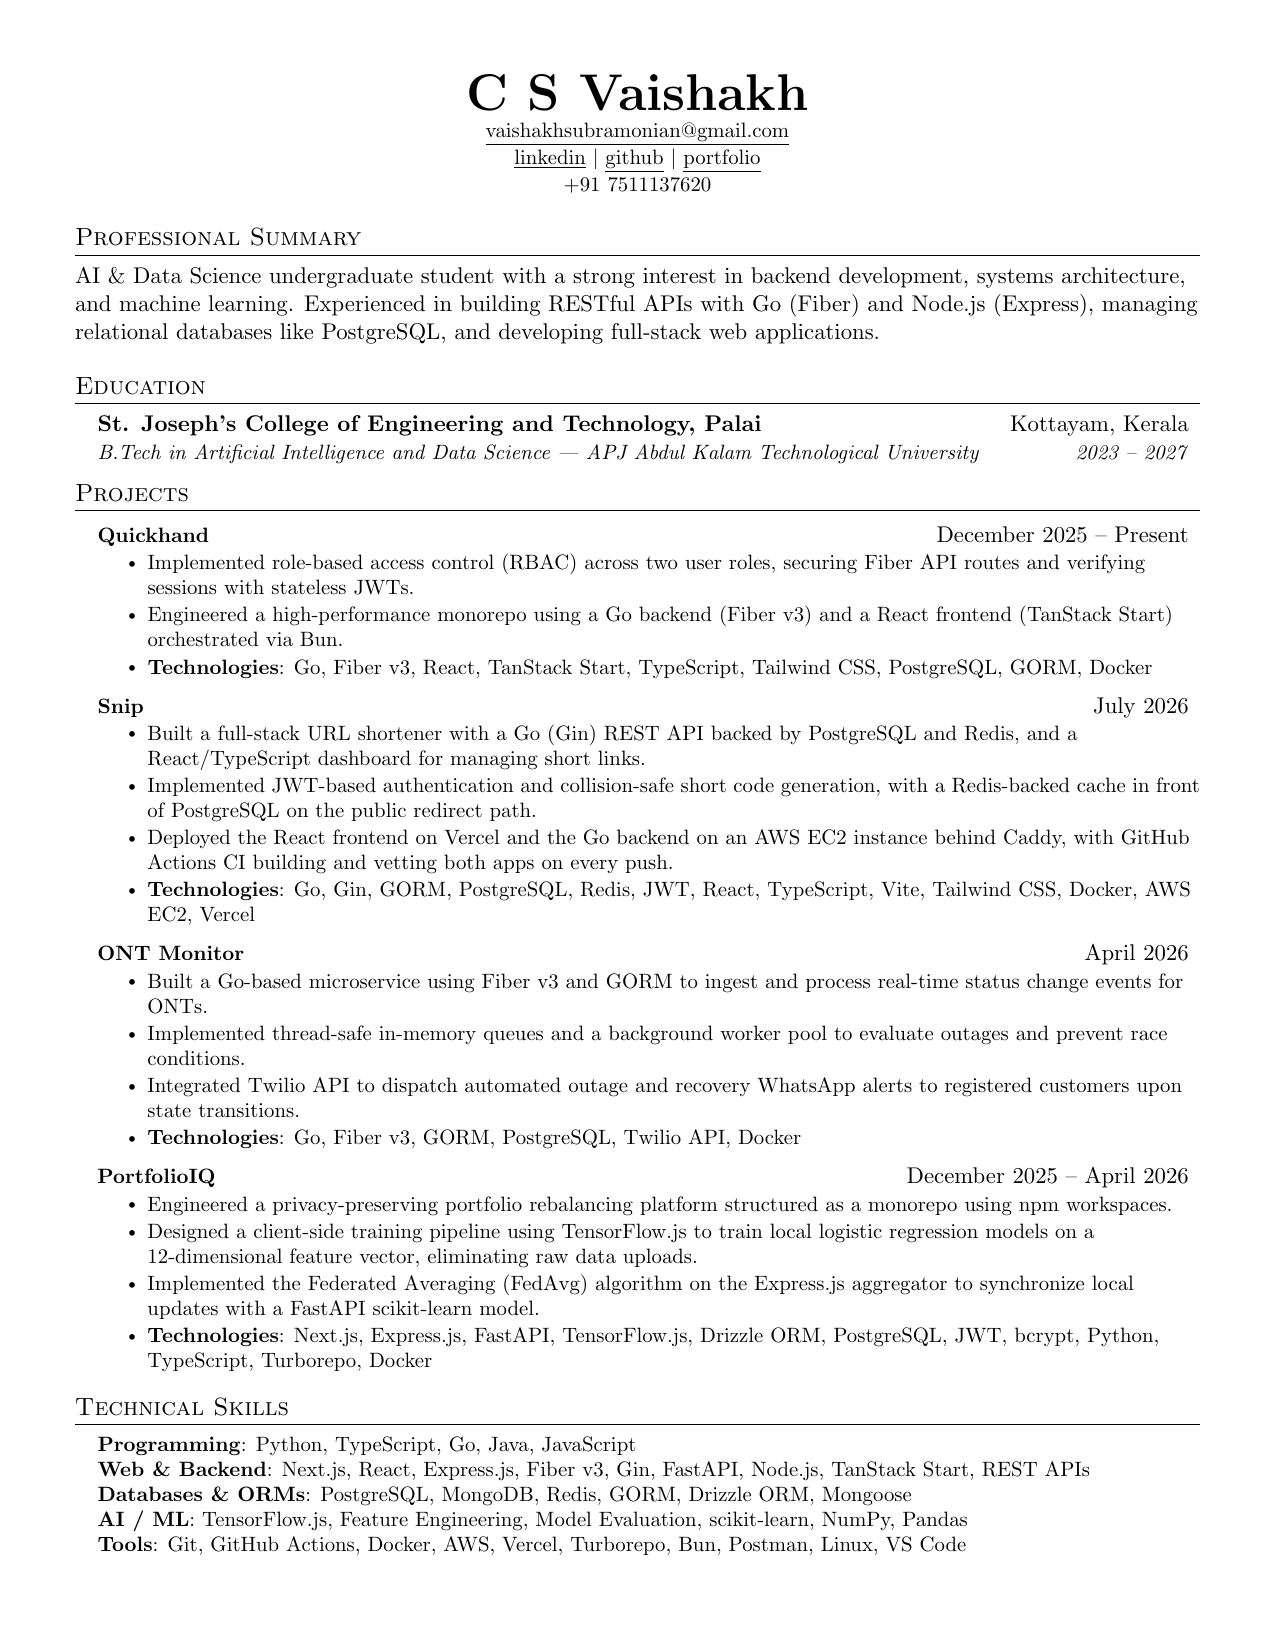
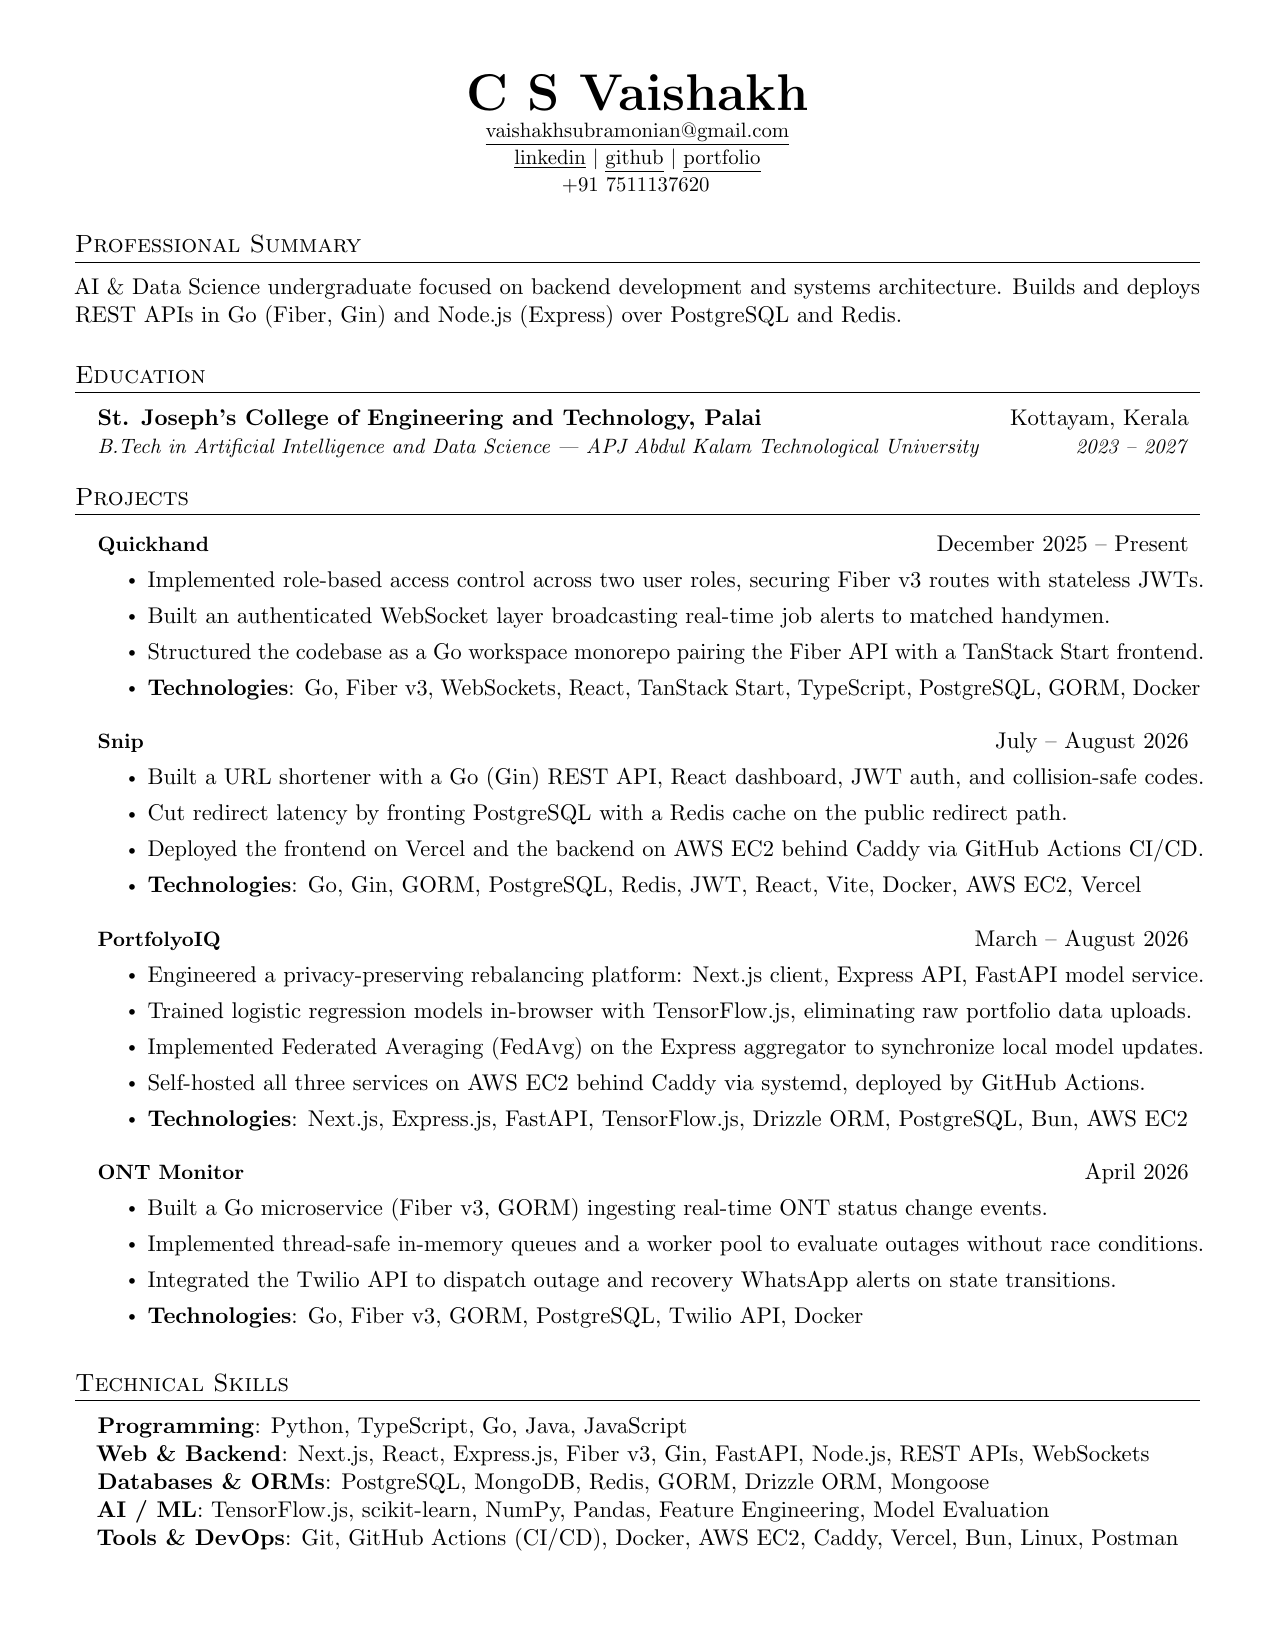
feat(resume): retune typography, refresh projects, tighten copy
- Justify body copy with microtype protrusion/expansion so lines fill
  cleanly instead of orphaning trailing words
- Replace hardcoded \small and vspace values with named typography
  commands (\bodyfont, \itemgap, \blockgap, \listgap, \secpre, \secpost)
- Fix \resumeItem to avoid trailing glue creating empty second lines
- Swap PortfolioIQ for PortfolyoIQ with deployment details, add
  WebSocket work to Quickhand, reorder projects by recency
- Condense summary, bullets, and skills sections

Claude-Session: https://claude.ai/code/session_01TGMSVWJrTrtqGAeWmbhmxX

diff --git a/Resume.tex b/Resume.tex
@@ -42,13 +42,27 @@
 \urlstyle{same}
 
 \raggedbottom
-\raggedright
+% Body copy is justified (not \raggedright): TeX can then shrink interword
+% space to pull trailing words back onto the line instead of orphaning them.
 \setlength{\tabcolsep}{0in}
+% Character protrusion + font expansion buy a little extra room per line and
+% keep the justified spacing even.
+\usepackage[protrusion=true,expansion=true]{microtype}
+
+%----------TYPOGRAPHY TUNING----------
+% Body copy size/leading for bullets and skills. Bumped above the template's
+% \small so the page reads at full size instead of shrunk.
+\newcommand{\bodyfont}{\fontsize{10.5pt}{13.6pt}\selectfont}
+\newcommand{\itemgap}{0pt}      % extra space after each bullet
+\newcommand{\blockgap}{-5pt}    % space after a heading block
+\newcommand{\listgap}{-1pt}     % space after a bullet list
+\newcommand{\secpre}{-1pt}      % space above a section rule
+\newcommand{\secpost}{-3pt}     % space below a section rule
 
 % Sections formatting
 \titleformat{\section}{
-  \vspace{-4pt}\scshape\raggedright\large
-}{}{0em}{}[\color{black}\titlerule \vspace{-5pt}]
+  \vspace{\secpre}\scshape\raggedright\large
+}{}{0em}{}[\color{black}\titlerule \vspace{\secpost}]
 
 % Ensure that generated PDF is machine readable/ATS parsable when supported
 \ifPDFTeX
@@ -58,10 +72,12 @@
 
 %-------------------------
 % Custom commands
-\newcommand{\resumeItem}[1]{
-  \item\small{
-    {#1 \vspace{-2pt}}
-  }
+% The trailing %-signs and the \par matter: without them a bullet whose text
+% reaches the right margin picks up trailing glue and breaks to a second, empty
+% line. The \par also closes the paragraph while \bodyfont is still active so the
+% last line uses the right leading.
+\newcommand{\resumeItem}[1]{%
+  \item{\bodyfont #1\par}\vspace{\itemgap}%
 }
 
 \newcommand{\resumeSubheading}[4]{
@@ -69,21 +85,21 @@
     \begin{tabular*}{0.97\textwidth}[t]{l@{\extracolsep{\fill}}r}
       \textbf{#1} & #2 \\
       \textit{\small#3} & \textit{\small #4} \\
-    \end{tabular*}\vspace{-7pt}
+    \end{tabular*}\vspace{\blockgap}
 }
 
 \newcommand{\resumeSubSubheading}[2]{
     \item
     \begin{tabular*}{0.97\textwidth}{l@{\extracolsep{\fill}}r}
       \textit{\small#1} & \textit{\small #2} \\
-    \end{tabular*}\vspace{-7pt}
+    \end{tabular*}\vspace{\blockgap}
 }
 
 \newcommand{\resumeProjectHeading}[2]{
     \item
     \begin{tabular*}{0.97\textwidth}{l@{\extracolsep{\fill}}r}
       \small#1 & #2 \\
-    \end{tabular*}\vspace{-7pt}
+    \end{tabular*}\vspace{\blockgap}
 }
 
 \newcommand{\resumeSubItem}[1]{\resumeItem{#1}\vspace{-4pt}}
@@ -93,7 +109,7 @@
 \newcommand{\resumeSubHeadingListStart}{\begin{itemize}[leftmargin=0.15in, label={}]}
 \newcommand{\resumeSubHeadingListEnd}{\end{itemize}}
 \newcommand{\resumeItemListStart}{\begin{itemize}}
-\newcommand{\resumeItemListEnd}{\end{itemize}\vspace{-5pt}}
+\newcommand{\resumeItemListEnd}{\end{itemize}\vspace{\listgap}}
 
 %-------------------------------------------
 %%%%%%  RESUME STARTS HERE  %%%%%%%%%%%%%%%%%%%%%%%%%%%%
@@ -118,7 +134,7 @@
 
 %-----------ABOUT----------
 \section*{Professional Summary}
-AI \& Data Science undergraduate student with a strong interest in backend development, systems architecture, and machine learning. Experienced in building RESTful APIs with Go (Fiber) and Node.js (Express), managing relational databases like PostgreSQL, and developing full-stack web applications.
+AI \& Data Science undergraduate focused on backend development and systems architecture. Builds and deploys REST APIs in Go (Fiber, Gin) and Node.js (Express) over PostgreSQL and Redis.
 
 %-----------EDUCATION-----------
 \section{Education}
@@ -135,36 +151,38 @@ AI \& Data Science undergraduate student with a strong interest in backend devel
   \resumeProjectHeading
       {\textbf{\href{https://github.com/CSVaishakh/QuickHand}{Quickhand}}}{December 2025 -- Present}
       \resumeItemListStart
-        \resumeItem{Implemented role-based access control (RBAC) across two user roles, securing Fiber API routes and verifying sessions with stateless JWTs.}
-        \resumeItem{Engineered a high-performance monorepo using a Go backend (Fiber v3) and a React frontend (TanStack Start) orchestrated via Bun.}
-        \resumeItem{\textbf{Technologies}: Go, Fiber v3, React, TanStack Start, TypeScript, Tailwind CSS, PostgreSQL, GORM, Docker}
+        \resumeItem{Implemented role-based access control across two user roles, securing Fiber v3 routes with stateless JWTs.}
+        \resumeItem{Built an authenticated WebSocket layer broadcasting real-time job alerts to matched handymen.}
+        \resumeItem{Structured the codebase as a Go workspace monorepo pairing the Fiber API with a TanStack Start frontend.}
+        \resumeItem{\textbf{Technologies}: Go, Fiber v3, WebSockets, React, TanStack Start, TypeScript, PostgreSQL, GORM, Docker}
       \resumeItemListEnd
 
   \resumeProjectHeading
-      {\textbf{\href{https://github.com/CSVaishakh/Snip}{Snip}}}{July 2026}
+      {\textbf{\href{https://github.com/CSVaishakh/Snip}{Snip}}}{July -- August 2026}
       \resumeItemListStart
-        \resumeItem{Built a full-stack URL shortener with a Go (Gin) REST API backed by PostgreSQL and Redis, and a React/TypeScript dashboard for managing short links.}
-        \resumeItem{Implemented JWT-based authentication and collision-safe short code generation, with a Redis-backed cache in front of PostgreSQL on the public redirect path.}
-        \resumeItem{Deployed the React frontend on Vercel and the Go backend on an AWS EC2 instance behind Caddy, with GitHub Actions CI building and vetting both apps on every push.}
-        \resumeItem{\textbf{Technologies}: Go, Gin, GORM, PostgreSQL, Redis, JWT, React, TypeScript, Vite, Tailwind CSS, Docker, AWS EC2, Vercel}
+        \resumeItem{Built a URL shortener with a Go (Gin) REST API, React dashboard, JWT auth, and collision-safe codes.}
+        \resumeItem{Cut redirect latency by fronting PostgreSQL with a Redis cache on the public redirect path.}
+        \resumeItem{Deployed the frontend on Vercel and the backend on AWS EC2 behind Caddy via GitHub Actions CI/CD.}
+        \resumeItem{\textbf{Technologies}: Go, Gin, GORM, PostgreSQL, Redis, JWT, React, Vite, Docker, AWS EC2, Vercel}
+      \resumeItemListEnd
+
+  \resumeProjectHeading
+      {\textbf{\href{https://github.com/CSVaishakh/PortfolyoIQ}{PortfolyoIQ}}}{March -- August 2026}
+      \resumeItemListStart
+        \resumeItem{Engineered a privacy-preserving rebalancing platform: Next.js client, Express API, FastAPI model service.}
+        \resumeItem{Trained logistic regression models in-browser with TensorFlow.js, eliminating raw portfolio data uploads.}
+        \resumeItem{Implemented Federated Averaging (FedAvg) on the Express aggregator to synchronize local model updates.}
+        \resumeItem{Self-hosted all three services on AWS EC2 behind Caddy via systemd, deployed by GitHub Actions.}
+        \resumeItem{\textbf{Technologies}: Next.js, Express.js, FastAPI, TensorFlow.js, Drizzle ORM, PostgreSQL, Bun, AWS EC2}
       \resumeItemListEnd
 
   \resumeProjectHeading
       {\textbf{\href{https://github.com/CSVaishakh/ONT-Monitor}{ONT Monitor}}}{April 2026}
       \resumeItemListStart
-        \resumeItem{Built a Go-based microservice using Fiber v3 and GORM to ingest and process real-time status change events for ONTs.}
-        \resumeItem{Implemented thread-safe in-memory queues and a background worker pool to evaluate outages and prevent race conditions.}
-        \resumeItem{Integrated Twilio API to dispatch automated outage and recovery WhatsApp alerts to registered customers upon state transitions.}
+        \resumeItem{Built a Go microservice (Fiber v3, GORM) ingesting real-time ONT status change events.}
+        \resumeItem{Implemented thread-safe in-memory queues and a worker pool to evaluate outages without race conditions.}
+        \resumeItem{Integrated the Twilio API to dispatch outage and recovery WhatsApp alerts on state transitions.}
         \resumeItem{\textbf{Technologies}: Go, Fiber v3, GORM, PostgreSQL, Twilio API, Docker}
-      \resumeItemListEnd
-
-  \resumeProjectHeading
-      {\textbf{\href{https://github.com/CSVaishakh/PortfolioIQ}{PortfolioIQ}}}{December 2025 -- April 2026}
-      \resumeItemListStart
-        \resumeItem{Engineered a privacy-preserving portfolio rebalancing platform structured as a monorepo using npm workspaces.}
-        \resumeItem{Designed a client-side training pipeline using TensorFlow.js to train local logistic regression models on a 12-dimensional feature vector, eliminating raw data uploads.}
-        \resumeItem{Implemented the Federated Averaging (FedAvg) algorithm on the Express.js aggregator to synchronize local updates with a FastAPI scikit-learn model.}
-        \resumeItem{\textbf{Technologies}: Next.js, Express.js, FastAPI, TensorFlow.js, Drizzle ORM, PostgreSQL, JWT, bcrypt, Python, TypeScript, Turborepo, Docker}
       \resumeItemListEnd
 
 \resumeSubHeadingListEnd
@@ -172,12 +190,12 @@ AI \& Data Science undergraduate student with a strong interest in backend devel
 %-----------TECHNICAL SKILLS-----------
 \section{Technical Skills}
 \begin{itemize}[leftmargin=0.15in, label={}]
-	\small{\item{
+	\bodyfont{\item{
 	      \textbf{Programming}{: Python, TypeScript, Go, Java, JavaScript} \\
-	      \textbf{Web \& Backend}{: Next.js, React, Express.js, Fiber v3, Gin, FastAPI, Node.js, TanStack Start, REST APIs} \\
+	      \textbf{Web \& Backend}{: Next.js, React, Express.js, Fiber v3, Gin, FastAPI, Node.js, REST APIs, WebSockets} \\
 	      \textbf{Databases \& ORMs}{: PostgreSQL, MongoDB, Redis, GORM, Drizzle ORM, Mongoose} \\
-	      \textbf{AI / ML}{: TensorFlow.js, Feature Engineering, Model Evaluation, scikit-learn, NumPy, Pandas} \\
-	      \textbf{Tools}{: Git, GitHub Actions, Docker, AWS, Vercel, Turborepo, Bun, Postman, Linux, VS Code}
+	      \textbf{AI / ML}{: TensorFlow.js, scikit-learn, NumPy, Pandas, Feature Engineering, Model Evaluation} \\
+	      \textbf{Tools \& DevOps}{: Git, GitHub Actions (CI/CD), Docker, AWS EC2, Caddy, Vercel, Bun, Linux, Postman}
 	      }}
 \end{itemize}
 
